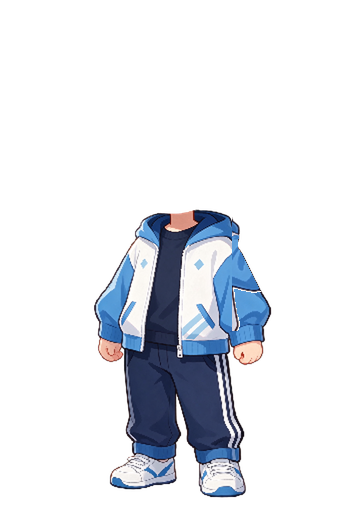
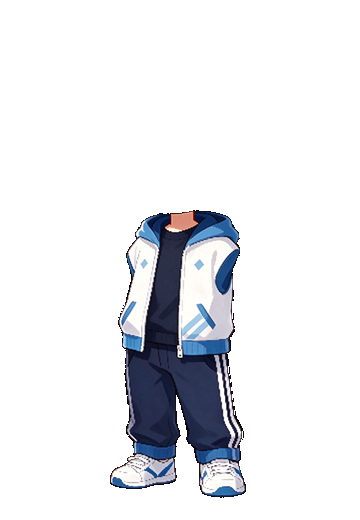
修复挥手三只手（无臂身体+同步触发动画），生图提示要求忠实原描述

diff --git a/sdk/xiaole-character.js b/sdk/xiaole-character.js
@@ -85,8 +85,6 @@
   var layerBlush = null;
   var rigBody = null;
   var rigArm = null;
-  var waveImg = null;
-  var waveBodyImg = null;
   var waveTimer = null;
 
   function frameSet() {
@@ -338,7 +336,7 @@
     startBlinkLoop();
   }
 
-  /** 挥手：手臂提成独立图层，绕肩部旋转抬起，再左右摆动 */
+  /** 挥手：身体换成无臂版，手臂单独一层绕肩旋转，再左右摆动 */
   Ch.wave = function () {
     var map = C.character.rig || {};
     var raw = map.wave && map.wave[gender];
@@ -351,59 +349,36 @@
     var idleSrc = rigPath(map.body || 'body');
     var armSrc = rigPath(cfg.arm);
     var bodySrc = cfg.body ? rigPath(cfg.body) : '';
+
     rigArm.style.transformOrigin = cfg.origin || '64% 41%';
-    rigArm.style.transform = 'rotate(' + (cfg.rest || 95) + 'deg)';
     rigArm.style.transition = 'none';
+    rigArm.style.transform = 'rotate(' + (cfg.rest || 95) + 'deg)';
+    // 图片是本地/同域缓存，直接换源、不等 onload；onload 只在前几次冷启动可能慢，
+    // 之前等它会让手臂一直透明，看起来像“没有手”。
+    if (rigArm.getAttribute('src') !== armSrc) rigArm.src = armSrc;
+    if (bodySrc && rigBody.getAttribute('src') !== bodySrc) rigBody.src = bodySrc;
 
-    function start() {
+    root.classList.add('xl-char-wave');
+    // 不依赖 requestAnimationFrame：后台标签页会把 rAF 节流，挥手就“不出手”。
+    // 用同步强制回流重启动画，结束时用定时器收尾。
+    if (rigArm) {
+      rigArm.classList.remove('is-on');
+      void rigArm.offsetWidth;
+      rigArm.classList.add('is-on');
+    }
+    waveTimer = setTimeout(function () {
       if (!rigBody || !rigArm) return;
-      if (bodySrc) rigBody.src = bodySrc;
-      root.classList.add('xl-char-wave');
-      // 换图后用一帧时间让浏览器提交样式，再启动旋转动画
-      requestAnimationFrame(function () {
-        requestAnimationFrame(function () {
-          if (!rigArm) return;
-          rigArm.style.transition = '';
-          rigArm.classList.add('is-on');
-          waveTimer = setTimeout(function () {
-            if (!rigBody || !rigArm) return;
-            rigArm.classList.remove('is-on');
-            rigArm.style.transition = 'opacity .16s linear, transform .22s ease-in';
-            rigArm.style.transform = 'rotate(' + (cfg.rest || 95) + 'deg)';
-            setTimeout(function () {
-              if (!rigBody || !rigArm) return;
-              rigBody.src = idleSrc;
-              root.classList.remove('xl-char-wave');
-              rigArm.style.transition = '';
-              waveTimer = null;
-            }, 240);
-          }, dur);
-        });
-      });
-    }
-
-    var pending = 0;
-    function tryStart() { if (pending === 0) start(); }
-    // 缓存判定：同一性别同一套图直接播
-    if (waveImg && waveImg.dataset.key === gender + ':' + cfg.arm &&
-        (!bodySrc || (waveBodyImg && waveBodyImg.dataset.key === gender + ':' + cfg.body))) {
-      start();
-      return true;
-    }
-    pending = 1 + (bodySrc ? 1 : 0);
-    waveImg = new Image();
-    waveImg.dataset.key = gender + ':' + cfg.arm;
-    waveImg.onload = function () { pending--; tryStart(); };
-    waveImg.onerror = function () { pending = 0; waveImg = null; };
-    waveImg.src = armSrc;
-    rigArm.src = armSrc;
-    if (bodySrc) {
-      waveBodyImg = new Image();
-      waveBodyImg.dataset.key = gender + ':' + cfg.body;
-      waveBodyImg.onload = function () { pending--; tryStart(); };
-      waveBodyImg.onerror = function () { pending--; bodySrc = ''; tryStart(); };
-      waveBodyImg.src = bodySrc;
-    }
+      rigArm.classList.remove('is-on');
+      rigArm.style.transition = 'opacity .16s linear, transform .22s ease-in';
+      rigArm.style.transform = 'rotate(' + (cfg.rest || 95) + 'deg)';
+      setTimeout(function () {
+        if (!rigBody || !rigArm) return;
+        rigBody.src = idleSrc;
+        root.classList.remove('xl-char-wave');
+        rigArm.style.transition = '';
+        waveTimer = null;
+      }, 240);
+    }, dur);
     return true;
   };
 

diff --git a/sdk/xiaole-config.js b/sdk/xiaole-config.js
@@ -42,6 +42,8 @@
       '代码用 ``` 包裹。',
       '只有当用户明确要求画图/生成图片/来张图时，才在回复最后单独一行输出 [[draw:画面描述]]，',
       '界面会自动帮用户生成图片；其余任何情况都不要输出 [[draw:...]]。一次回复最多一条。',
+      '[[draw:...]] 里的描述必须忠实照抄用户给的主体、数量、颜色、动作、场景、画风和画幅（横/竖/方），',
+      '不要改题材、不要换主体、不要加用户没提的东西；只在用户没写画风时补一句“插画风”。',
       '不要自己编造图片地址。'
     ].join('\n'),
 
